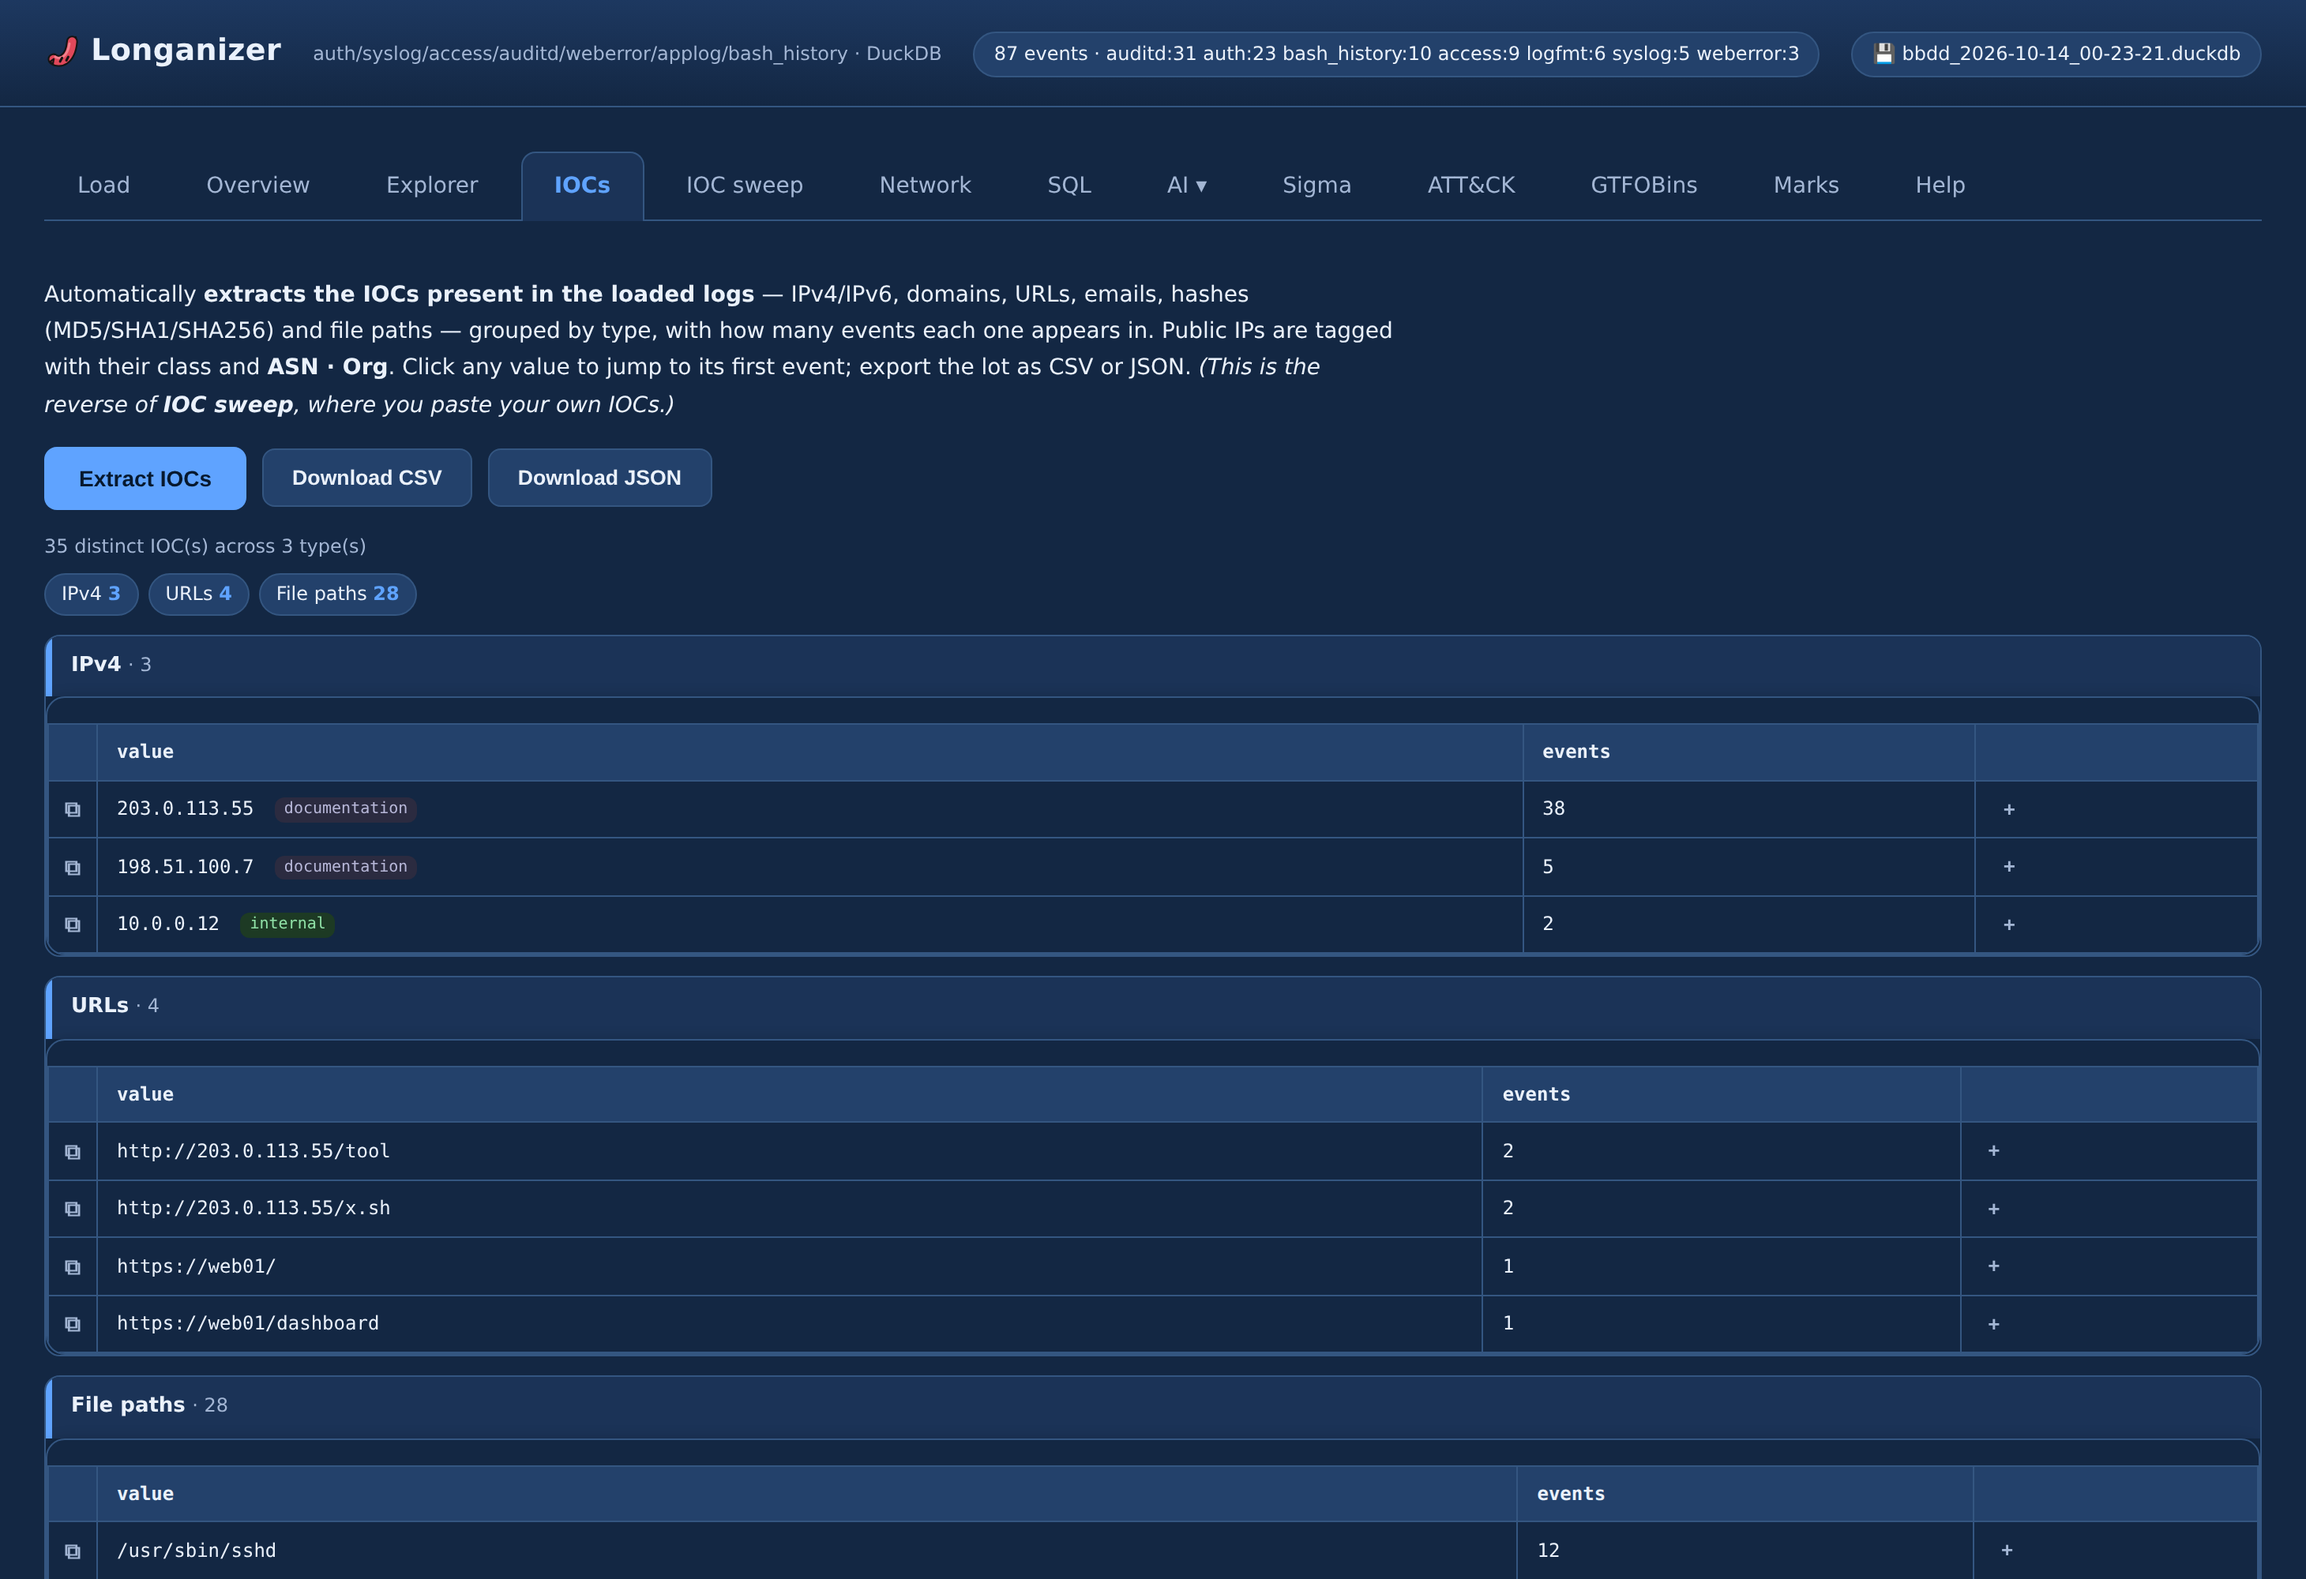
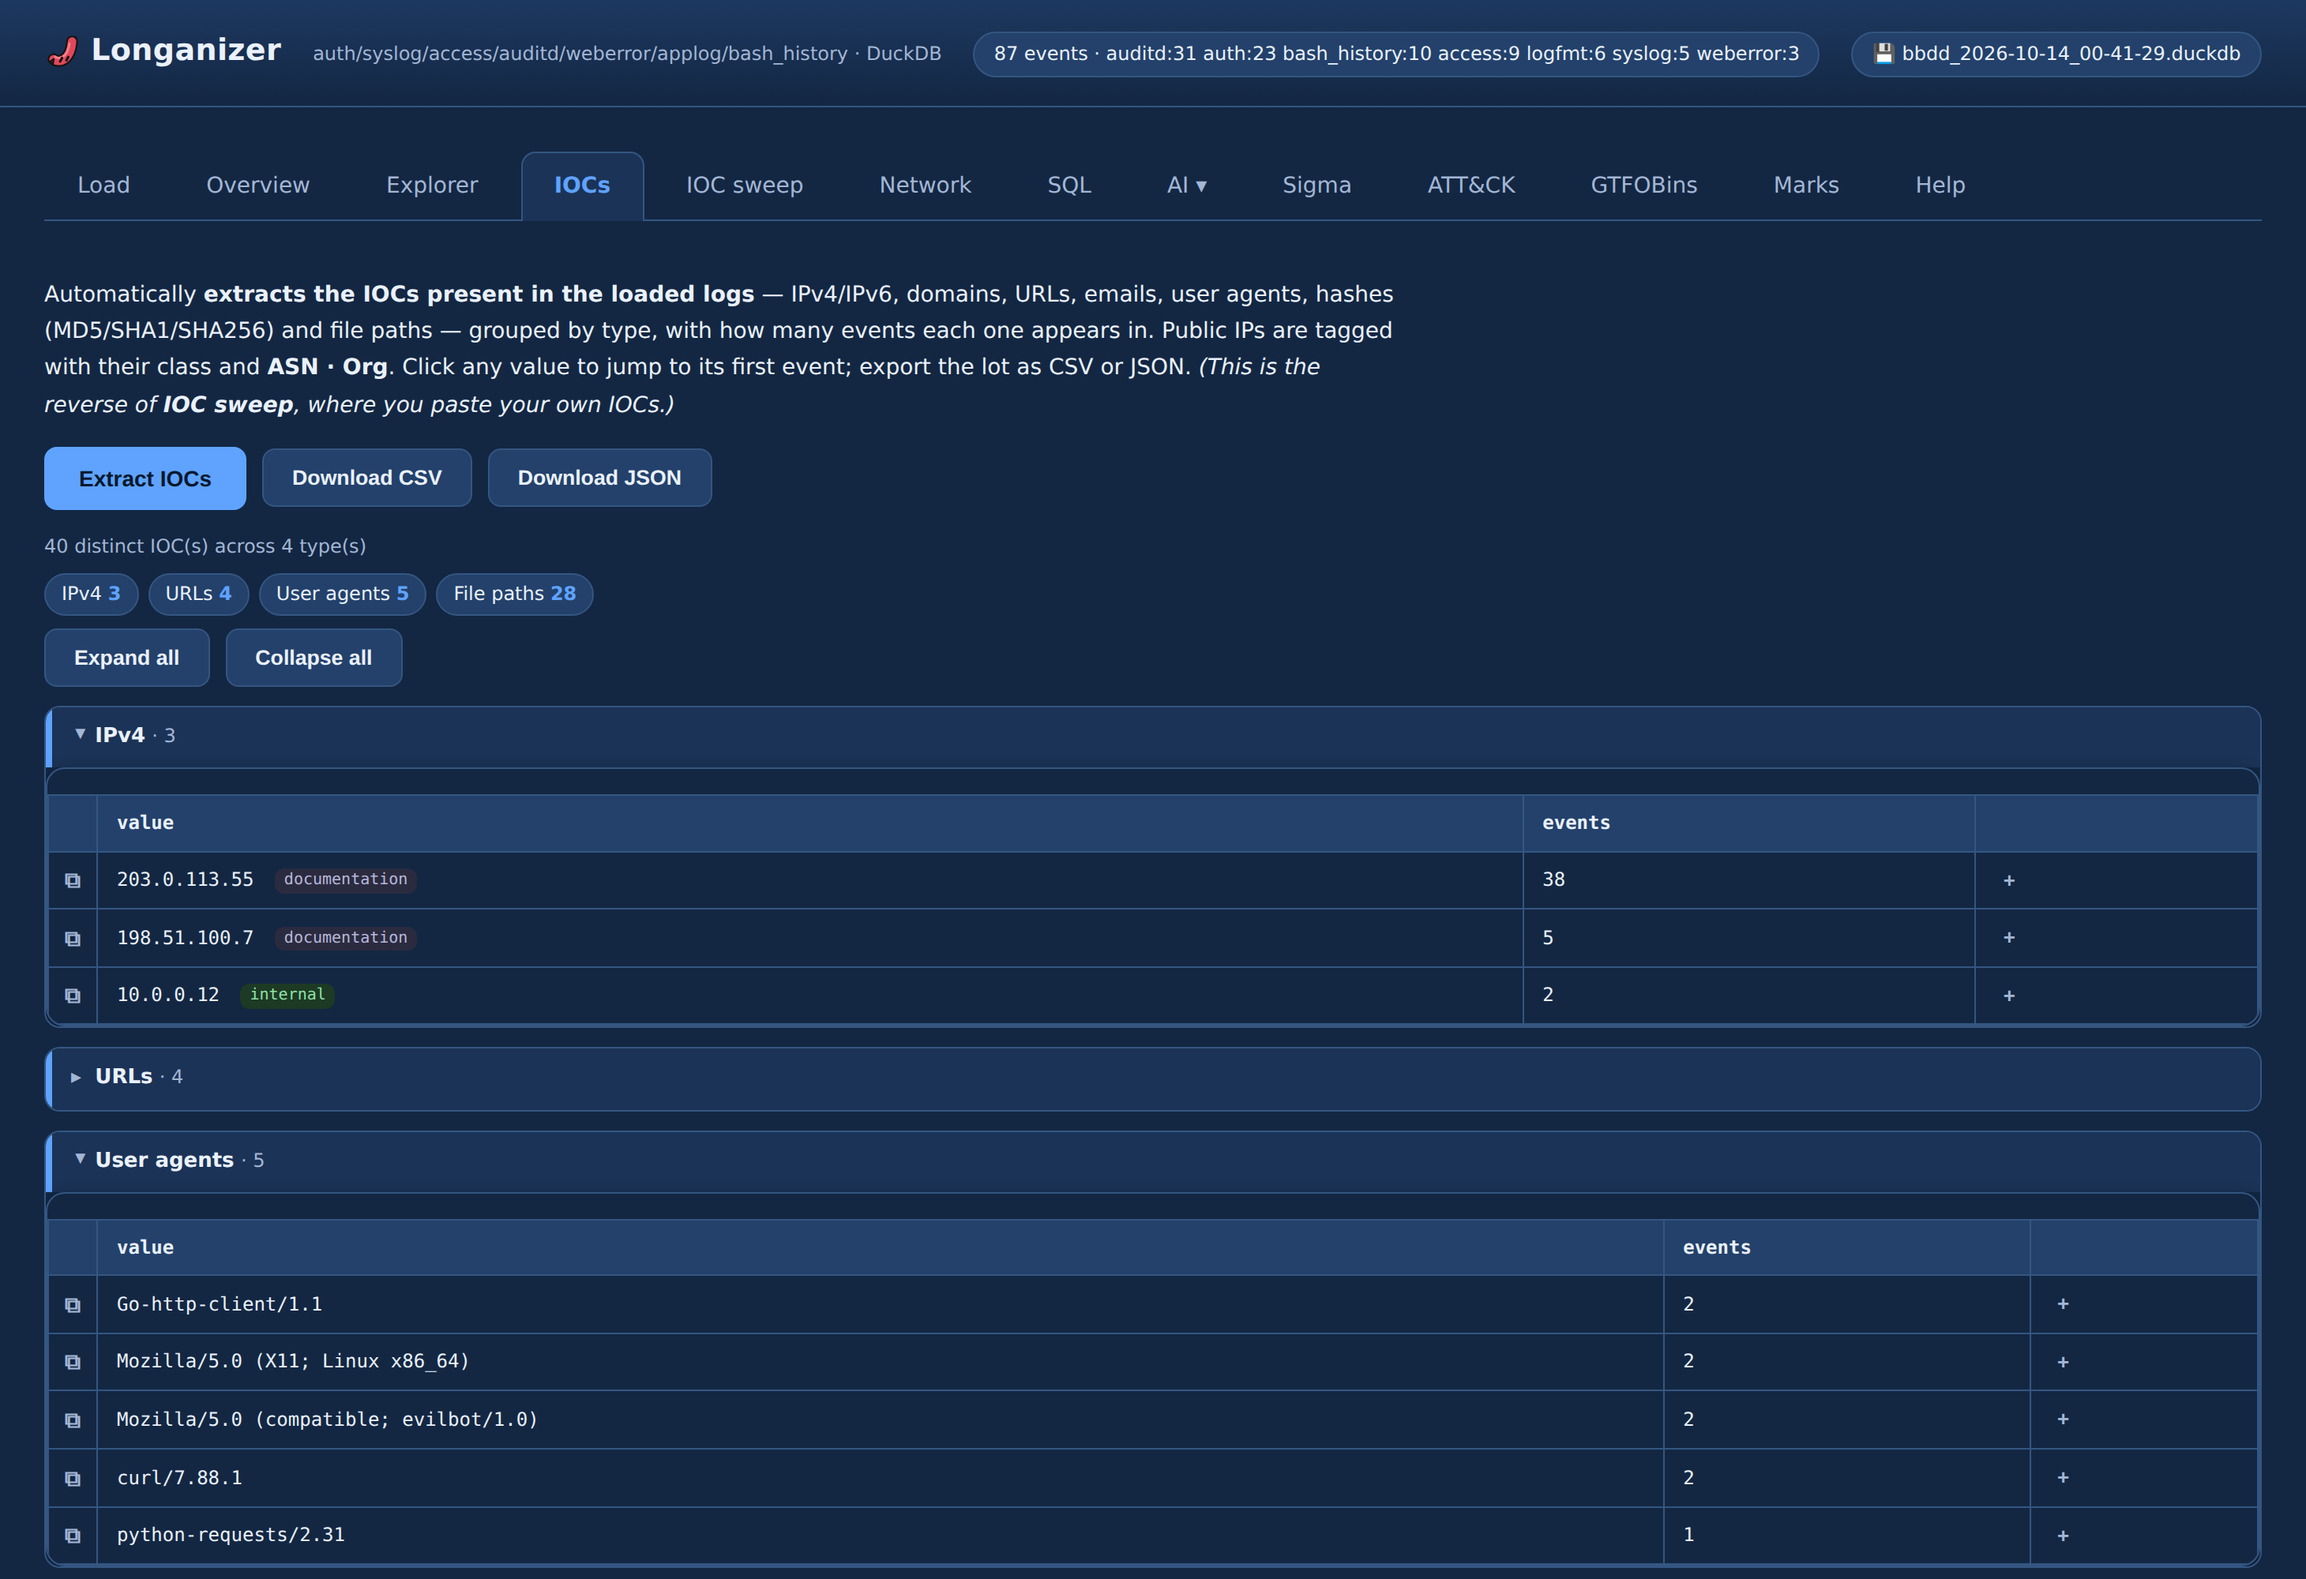
feat(iocs): add user-agent IOC type and collapsible per-type cards
- Extract user agents as a dedicated IOC type (from the user_agent field)
- Group each IOC type into a collapsible card (caret + Expand/Collapse all),
  first card open by default, chips jump to and expand their type
- Refresh the IOCs screenshot and README/help text to match

Claude-Session: https://claude.ai/code/session_014v8xzHoRPvNCuRo7BYN2ri

Changed region(s): [[0.0, 0.341, 0.9973, 1.0], [0.2182, 0.186, 0.5921, 0.217], [0.0312, 0.186, 0.187, 0.217]]

diff --git a/loganalyzer/app.py b/loganalyzer/app.py
@@ -1088,6 +1088,12 @@ INDEX_HTML = r"""<!doctype html>
  .iocard.ioc-hit .iohead{border-left:4px solid #f85149}
  .iocard.ioc-clean .iohead{border-left:4px solid #3fb950;color:var(--muted)}
  .iocard .iohead{border-left:4px solid var(--accent)}
+ .iocard .iocxbody{display:none}
+ .iocard.open .iocxbody{display:block}
+ .iocxtoggle{cursor:pointer;user-select:none}
+ .iocard .caret{display:inline-block;width:11px;color:var(--muted);transition:transform .15s}
+ .iocard .caret::before{content:'\25B8'}
+ .iocard.open .caret{transform:rotate(90deg)}
  .iocxchips{display:flex;flex-wrap:wrap;gap:6px;margin:8px 0}
  .iocxchip{background:var(--panel2);border:1px solid var(--border);border-radius:14px;padding:3px 10px;font-size:12px;color:var(--fg);text-decoration:none}
  .iocxchip:hover{border-color:var(--accent)} .iocxchip b{color:var(--accent)}
@@ -1659,7 +1665,7 @@ LIMIT 50;</textarea>
 
  <!-- ============ IOC EXTRACTOR ============ -->
  <section id="iocx" class="panel">
-  <div class="help"><p>Automatically <b>extracts the IOCs present in the loaded logs</b> — IPv4/IPv6, domains, URLs, emails, hashes (MD5/SHA1/SHA256) and file paths — grouped by type, with how many events each one appears in. Public IPs are tagged with their class and <b>ASN · Org</b>. Click any value to jump to its first event; export the lot as CSV or JSON. <i>(This is the reverse of <b>IOC sweep</b>, where you paste your own IOCs.)</i></p></div>
+  <div class="help"><p>Automatically <b>extracts the IOCs present in the loaded logs</b> — IPv4/IPv6, domains, URLs, emails, user agents, hashes (MD5/SHA1/SHA256) and file paths — grouped by type, with how many events each one appears in. Public IPs are tagged with their class and <b>ASN · Org</b>. Click any value to jump to its first event; export the lot as CSV or JSON. <i>(This is the reverse of <b>IOC sweep</b>, where you paste your own IOCs.)</i></p></div>
   <div class="row">
    <button class="bigbtn" onclick="loadIocx()" id="iocx_btn">Extract IOCs</button>
    <button class="sec" onclick="iocxExport('csv')" id="iocx_csv" disabled>Download CSV</button>
@@ -1780,7 +1786,7 @@ LIMIT 50;</textarea>
 
    <h3>IOCs <span class="hintlbl">· extractor (discovered indicators)</span></h3>
    <ul>
-    <li><b>Extracts the IOCs present in the loaded logs</b> — IPv4/IPv6, domains, URLs, emails, hashes (MD5/SHA1/SHA256) and file paths — grouped by type, each with the number of events it appears in. Strict validation avoids false positives (e.g. an auditd <code>saddr=</code> hex blob is not reported as an MD5, and <code>payload.sh</code> is not a domain). Public IPs are tagged with their class and <b>ASN · Org</b>. Click a value to jump to its first event; export everything as CSV or JSON. It's the <b>reverse of IOC sweep</b>: you don't paste anything, the app discovers them.</li>
+    <li><b>Extracts the IOCs present in the loaded logs</b> — IPv4/IPv6, domains, URLs, emails, user agents, hashes (MD5/SHA1/SHA256) and file paths — grouped by type, each with the number of events it appears in. Strict validation avoids false positives (e.g. an auditd <code>saddr=</code> hex blob is not reported as an MD5, and <code>payload.sh</code> is not a domain). Public IPs are tagged with their class and <b>ASN · Org</b>. Click a value to jump to its first event; export everything as CSV or JSON. It's the <b>reverse of IOC sweep</b>: you don't paste anything, the app discovers them.</li>
    </ul>
 
    <h3>IOC sweep</h3>
@@ -2498,10 +2504,11 @@ async function loadIocx(){
   document.getElementById('iocx_csv').disabled=false; document.getElementById('iocx_json').disabled=false;
   if(!j.groups||!j.groups.length){ out.innerHTML='<p class="muted">No IOCs found in the loaded data.</p>'; btn.disabled=false; return; }
   let h='<div class="count">'+j.total+' distinct IOC(s) across '+j.groups.length+' type(s)</div>';
-  h+='<div class="iocxchips">'+j.groups.map(g=>'<a class="iocxchip" href="#iocx_'+g.type+'">'+esc(g.label)+' <b>'+g.total+'</b></a>').join('')+'</div>';
-  for(const g of j.groups){
-   h+='<div class="iocard" id="iocx_'+g.type+'"><div class="iohead"><b>'+esc(g.label)+'</b> <span class="muted">· '+g.total+(g.total>g.items.length?(' (showing '+g.items.length+')'):'')+'</span></div>';
-   h+='<div class="wrap"><table><thead><tr><th class="acts"></th><th>value</th><th>events</th><th></th></tr></thead><tbody>';
+  h+='<div class="iocxchips">'+j.groups.map(g=>'<a class="iocxchip" href="#iocx_'+g.type+'" onclick="iocxOpen(event,\''+g.type+'\')">'+esc(g.label)+' <b>'+g.total+'</b></a>').join('')+'</div>';
+  h+='<div class="row" style="margin:2px 0 6px"><button class="sec" onclick="iocxAll(1)">Expand all</button> <button class="sec" onclick="iocxAll(0)">Collapse all</button></div>';
+  j.groups.forEach(function(g,gi){
+   h+='<div class="iocard'+(gi===0?' open':'')+'" id="iocx_'+g.type+'"><div class="iohead iocxtoggle" onclick="this.parentNode.classList.toggle(\'open\')"><span class="caret"></span> <b>'+esc(g.label)+'</b> <span class="muted">· '+g.total+(g.total>g.items.length?(' (showing '+g.items.length+')'):'')+'</span></div>';
+   h+='<div class="iocxbody"><div class="wrap"><table><thead><tr><th class="acts"></th><th>value</th><th>events</th><th></th></tr></thead><tbody>';
    for(const it of g.items){
     let tag='';
     if(it.klass){ const cls=(it.klass==='external'?'ioctag-ext':(it.klass==='internal'?'ioctag-int':'ioctag-doc'));
@@ -2510,13 +2517,15 @@ async function loadIocx(){
       +'<td class="iocval" onclick="iocxGoto('+it.id+')" title="jump to first event">'+esc(it.value)+' '+tag+'</td>'
       +'<td>'+it.count+'</td><td><button class="revbtn" title="add first event to review" onclick="event.stopPropagation();addReview('+it.id+',this)" data-regla="'+esc('IOC '+g.label+': '+it.value)+'">&#43;</button></td></tr>';
    }
-   h+='</tbody></table></div></div>';
-  }
+   h+='</tbody></table></div></div></div>';
+  });
   out.innerHTML=h;
  }catch(e){ msg.innerHTML='<span class="err">'+esc(e)+'</span>'; }
  btn.disabled=false;
 }
 function iocxGoto(id){ switchTab('explorer'); openCtx(id); }
+function iocxAll(open){ document.querySelectorAll('#iocx_out .iocard').forEach(c=>c.classList.toggle('open',!!open)); }
+function iocxOpen(ev,type){ if(ev)ev.preventDefault(); const c=document.getElementById('iocx_'+type); if(c){ c.classList.add('open'); c.scrollIntoView({block:'start'}); } }
 function iocxExport(fmt){
  if(!IOCX) return;
  if(fmt==='json'){ dlBlob('iocs.json', JSON.stringify(IOCX,null,2), 'application/json'); return; }

diff --git a/loganalyzer/store.py b/loganalyzer/store.py
@@ -982,13 +982,11 @@ class EventStore:
         for r in rows:
             rid, ts = r[0], r[1]
             msg, raw, exe, path, ref, ua, host, prog, sip, extra = r[2:]
-            general = " ".join((msg, raw, exe, path, ref, ua, host, prog, sip, extra))
-            hashes_text = " ".join((msg, exe, path, ref, ua))
+            general = " ".join((msg, raw, exe, path, ref, host, prog, sip, extra))
+            hashes_text = " ".join((msg, exe, path, ref))
             seen = set()
-            for typ, val in X.iter_iocs(general, hashes_text, windows=False):
-                if (typ, val) in seen:
-                    continue
-                seen.add((typ, val))
+
+            def _bump(typ, val):
                 e = agg.get((typ, val))
                 if e is None:
                     agg[(typ, val)] = {"count": 1, "id": rid, "ts": ts}
@@ -996,6 +994,17 @@ class EventStore:
                     e["count"] += 1
                     if rid < e["id"]:
                         e["id"], e["ts"] = rid, ts
+
+            for typ, val in X.iter_iocs(general, hashes_text, windows=False):
+                if (typ, val) in seen:
+                    continue
+                seen.add((typ, val))
+                _bump(typ, val)
+            # user-agent: valor de campo completo (no por regex)
+            uav = (ua or "").strip()
+            if uav and uav != "-" and ("useragent", uav) not in seen:
+                seen.add(("useragent", uav))
+                _bump("useragent", uav)
         return self._group_iocs(agg, per_type, X, geo)
 
     @staticmethod

diff --git a/loganalyzer/ioc_extract.py b/loganalyzer/ioc_extract.py
@@ -207,12 +207,13 @@ def iter_iocs(general: str, hashes_text: str,
 
 
 # etiqueta legible por tipo (orden de presentación)
-IOC_TYPES = ["ipv4", "ipv6", "domain", "url", "email",
+IOC_TYPES = ["ipv4", "ipv6", "domain", "url", "email", "useragent",
              "sha256", "sha1", "md5", "imphash", "filepath",
              "registry", "pipe", "service", "task"]
 IOC_LABEL = {
     "ipv4": "IPv4", "ipv6": "IPv6", "domain": "Domains", "url": "URLs",
-    "email": "Emails", "sha256": "SHA256", "sha1": "SHA1", "md5": "MD5",
-    "imphash": "Imphash", "filepath": "File paths", "registry": "Registry keys",
-    "pipe": "Named pipes", "service": "Services", "task": "Scheduled tasks",
+    "email": "Emails", "useragent": "User agents", "sha256": "SHA256",
+    "sha1": "SHA1", "md5": "MD5", "imphash": "Imphash", "filepath": "File paths",
+    "registry": "Registry keys", "pipe": "Named pipes", "service": "Services",
+    "task": "Scheduled tasks",
 }

diff --git a/README.md b/README.md
@@ -5,8 +5,8 @@
 **Forensic Linux log analyzer — parse once, query with SQL, hunt with Sigma.**
 
 Drop in the logs you pulled from a box, open the browser, and investigate:
-timeline, full‑text + field search, Sigma detections, GTFOBins, IOC sweep,
-GeoIP and a one‑click case report. Runs **100% offline**.
+timeline, full‑text + field search, Sigma detections, GTFOBins, IOC
+extraction & sweep, GeoIP and a one‑click case report. Runs **100% offline**.
 
 ![Python](https://img.shields.io/badge/Python-3.11+-blue)
 ![FastAPI](https://img.shields.io/badge/FastAPI-DuckDB-009688)
@@ -56,7 +56,7 @@ python run.py --db case.duckdb  # keep the case in a file instead of memory
 
 ![Sigma](docs/img/04-sigma.png)
 
-**IOCs — indicators discovered in the data, grouped by type and exportable**
+**IOCs — indicators discovered in the data, grouped into collapsible cards and exportable**
 
 ![IOCs](docs/img/05-iocs.png)
 
@@ -70,7 +70,7 @@ python run.py --db case.duckdb  # keep the case in a file instead of memory
 | 🧬 **auditd enrichment** | EXECVE stitched into full command lines, hex & `saddr` decoded (decoded values shown *in italics*) |
 | 🪤 **GTFOBins** | cross‑references binaries actually executed (incl. BSD appliance shell logs) with the catalog |
 | 🌐 **GeoIP / ASN** | public IPs tagged with country + Org/ISP (offline DB‑IP Lite) |
-| 🧷 **IOC extractor** | discovers the IOCs present in the data — IPs, domains, URLs, emails, hashes, file paths — grouped by type, ASN‑tagged, CSV/JSON export |
+| 🧷 **IOC extractor** | discovers the IOCs present in the data — IPs, domains, URLs, emails, user agents, hashes, file paths — in collapsible per‑type cards, ASN‑tagged, CSV/JSON export |
 | 🎯 **IOC sweep** | paste IPs/hashes/paths/users and sweep every log at once, export CSV |
 | ⏱ **Live ingest** | progress by bytes with start / elapsed / ETA |
 | 🤖 **AI & MCP** | optional AI tab and an MCP server to query the case from Claude |
